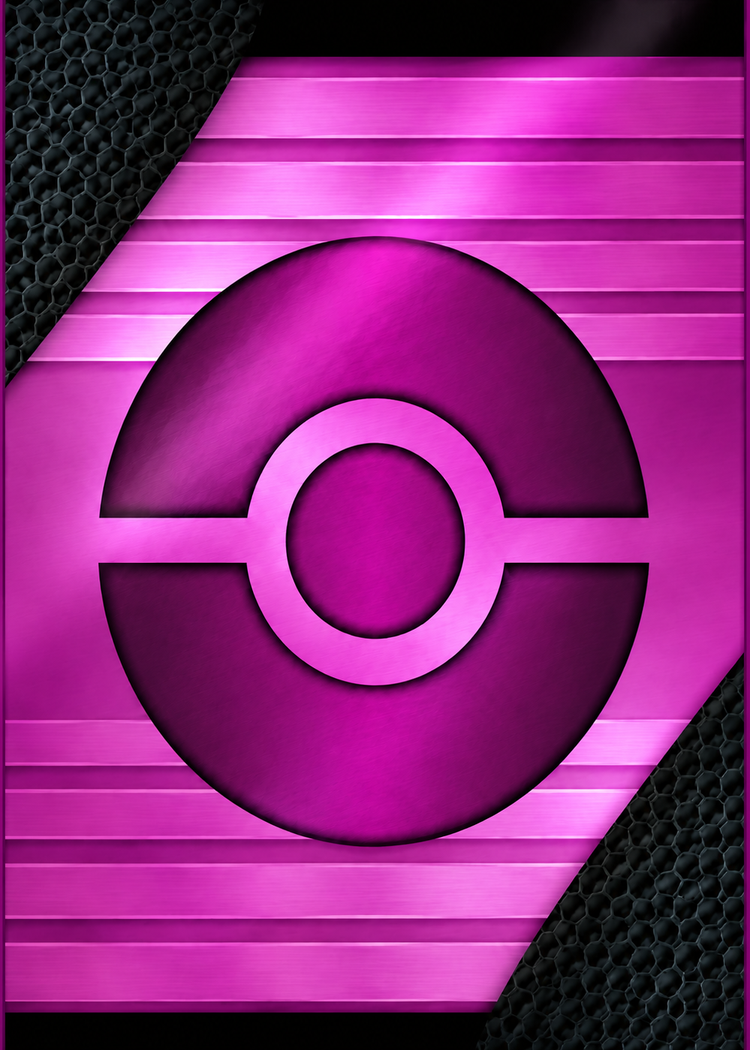
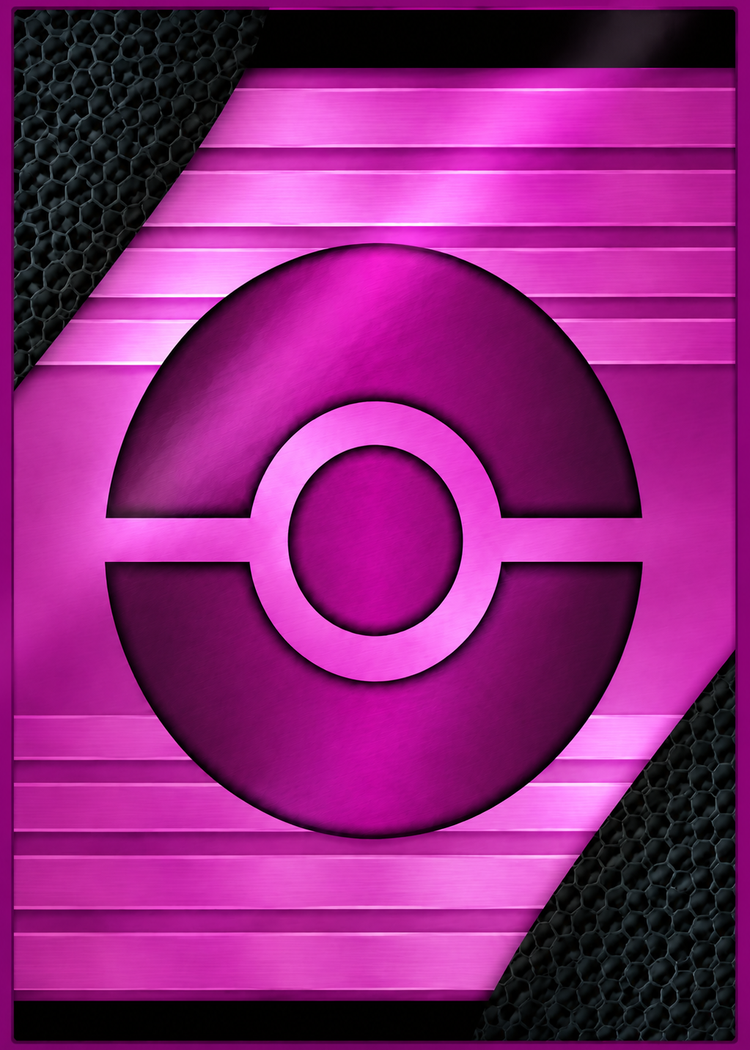
Restore the purple border all around Pokeball Morada
The 30px uniform trim used to clear the corner fringe (previous commit)
cut past the card's own purple border on the thinner top/bottom edges
while only grazing it on the sides -- user correctly pointed out the
border should run the full contour, not just left/right. Reduced the
trim to 18px (just past the ~15px corner-rounding fringe, no more) so
the border survives on all four sides while the fringe still doesn't.
Bumped to ?v=3 for cache-busting.

diff --git a/ui.js b/ui.js
@@ -85,7 +85,7 @@ var CARD_BACK_OPTIONS = [
   // Edge-to-edge black art with no border of its own -- outline:true adds a
   // white frame so it doesn't blend into the shop card's dark background.
   { id: 'protector_team_rocket', name: 'Team Rocket', img: 'Cartas/Protector_TeamRocket.png?v=2', cost: PROTECTOR_COST, outline: true },
-  { id: 'protector_pokebola_morada', name: 'Poké Ball Morada', img: 'Cartas/Protector_PokebolaMorada.png?v=2', cost: PROTECTOR_COST },
+  { id: 'protector_pokebola_morada', name: 'Poké Ball Morada', img: 'Cartas/Protector_PokebolaMorada.png?v=3', cost: PROTECTOR_COST },
   { id: 'protector_fantasma', name: 'Fantasma', img: 'Cartas/Protector_Fantasma.png?v=2', cost: PROTECTOR_COST },
   { id: 'protector_perona', name: 'Perona', img: 'Cartas/Protector_Perona.png?v=2', cost: PROTECTOR_COST },
   { id: 'protector_sasuke', name: 'Sasuke', img: 'Cartas/Protector_Sasuke.png?v=2', cost: PROTECTOR_COST },
